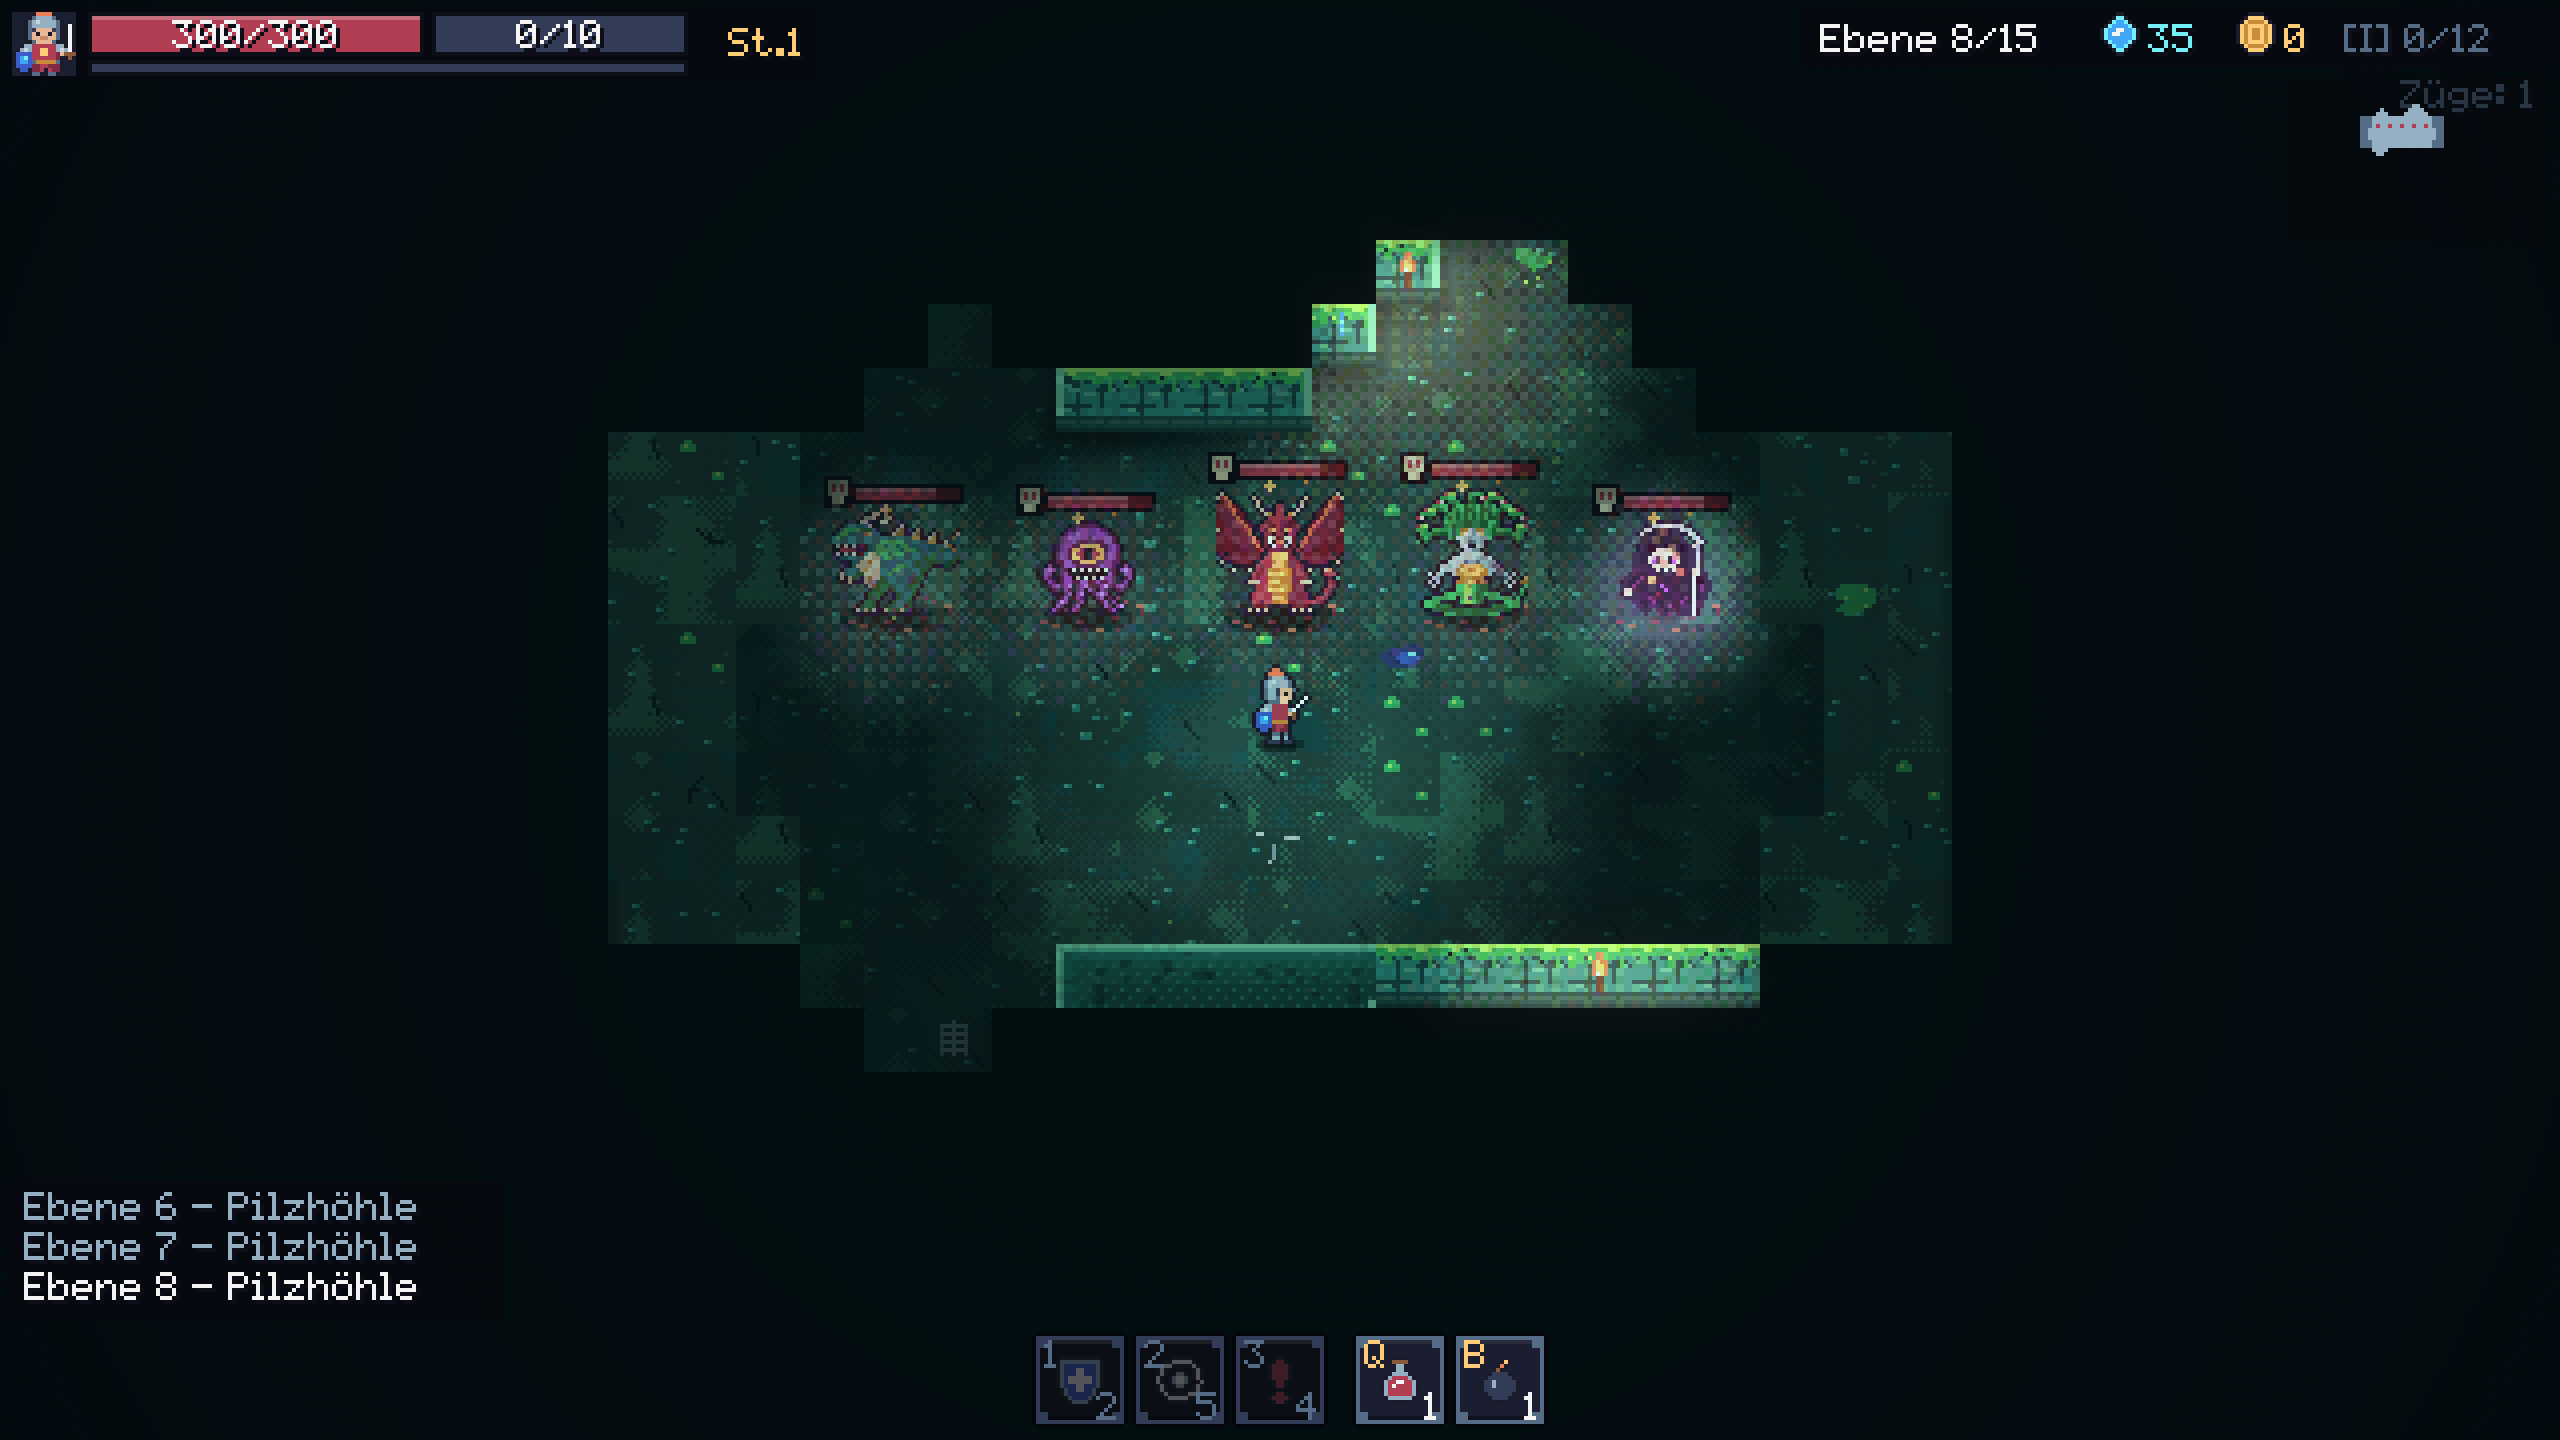
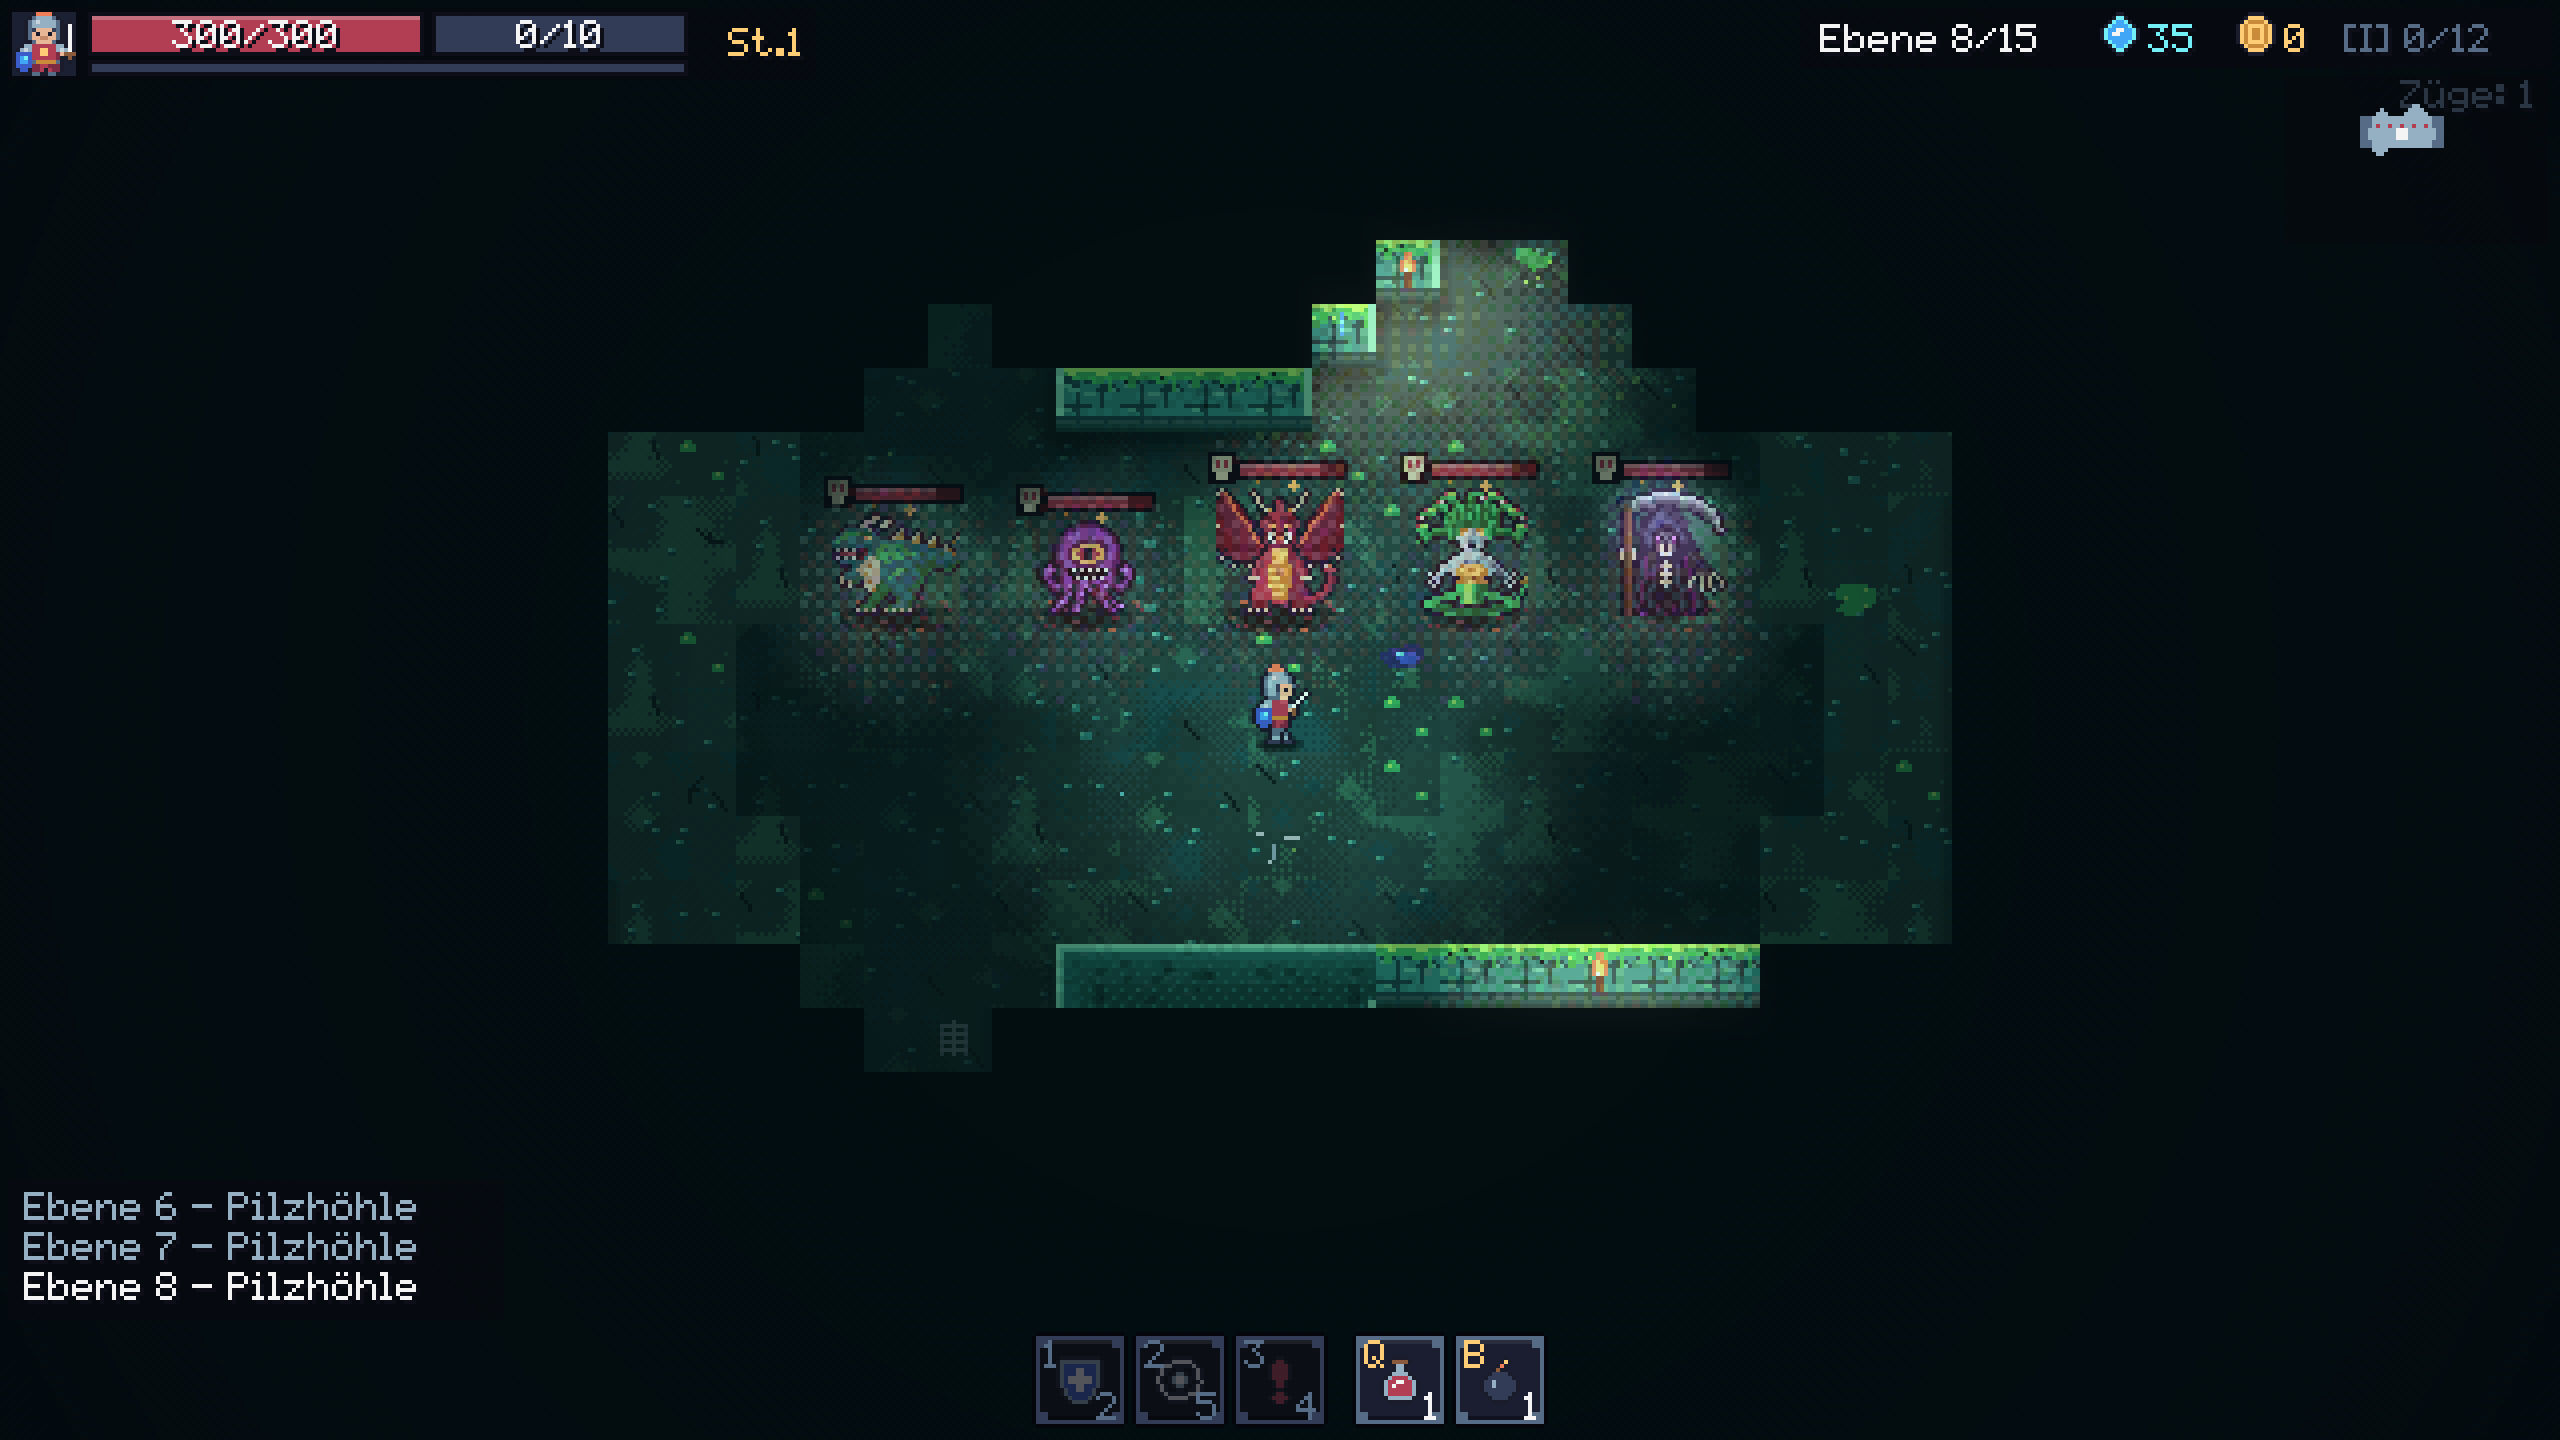
hunters: scarier Death sprite (32x32)
Skull hidden deep in the hood with glowing eye points, rib slit, clawed
bony hand, huge scythe over the head, robe tearing into violet smoke.
Drops the fire glow (yellow sparks) that washed the robe out; eyes get
their own small light.

Claude-Session: https://claude.ai/code/session_01TMNu2fYnrP26VeGDyRGVjJ

diff --git a/src/render/sprites.ts b/src/render/sprites.ts
@@ -1072,7 +1072,7 @@ if (SCHUETZE_NEU) ATTACK.schuetze = { f: [
 // Schwebende Wesen laufen nicht – sie wippen nur
 export const FLOATERS = new Set(['fledermaus', 'glutgeist', 'ratte', 'tod']);
 // Wesen, die selbst leuchten: Radius in Feldern und Farbe
-export const GLOW: Record<string, [number, string]> = { glutgeist: [3.4, '#ef7d57'], fuerst: [5, '#ef7d57'], irrlicht: [2.6, '#73eff7'], tod: [2.4, '#9a4fc0'] };
+export const GLOW: Record<string, [number, string]> = { glutgeist: [3.4, '#ef7d57'], fuerst: [5, '#ef7d57'], irrlicht: [2.6, '#73eff7'] };
 
 // Ereignisse: Leuchtpilz, Kühlplatte, Sporenei
 SPR.leuchtpilz = ['................', '................', '................', '.....ssss.......', '...sscwwcss.....', '..scccsscccs....', '..sccscccsccs...', '...ssssssssss...', '......gg........', '......gg....ss..',
@@ -1104,7 +1104,7 @@ export const RECOLORS: [string, string, Record<string, string>][] = [
   ['schlange', 'ratte', { d: '#38b764', h: '#a7f070', g: '#ffcd75' }],
 ];
 
-// ---------- Jäger: eigene große Gestalten, größer als Bosse (Echse 32x26, Drache 32x32, Medusa 28x32, Krake und Tod 24x24) ----------
+// ---------- Jäger: eigene große Gestalten, größer als Bosse (Echse 32x26, Drache 32x32, Medusa 28x32, Tod 32x32, Krake 24x24) ----------
 SPR.echse = [
   '..........uu....................',
   '........uuu..uu.................',
@@ -1228,30 +1228,38 @@ SPR.medusa = [
   '.......GGGFFFFFFFFGGG.......',
 ];
 SPR.tod = [
-  '.........SSwwwwwS.......',
-  '.......Sw.......wSS.....',
-  '......S...kkkk....wS....',
-  '........kkKKKKkk...SS...',
-  '.......kKKKKKKKKk...uS..',
-  '......kKKKKKKKKKKk.uS...',
-  '......kKKKuuuuKKKk..S...',
-  '.....kKKKuuuuuuKKKk.S...',
-  '.....kKKuPKuuKPuKKk.S...',
-  '.....kKKuvKuuKvuKKk.S...',
-  '.....kKKKuuuuuuKKKk.S...',
-  '.....kKKKKuKuKuKKKkuu...',
-  '....kKKKKKKKKKKKKKKuuk..',
-  '...kKKpKKKKKKKKKKKKSKk..',
-  '..kKKpKKKKKKKKKKKKKSKKk.',
-  '..kKpKKKKKKvKKKKKKKSKpk.',
-  '..uukKKKKKKKvKKKKKKSKpk.',
-  '..uu.kKKKKKKKKKKKKKSKk..',
-  '.....kKKpKKKKKKKKpKSKk..',
-  '.....kKKKpKKKKKKpKKSk...',
-  '......kKk.kKKpKKk.kSk...',
-  '.......k...kKk.Kk..S....',
-  '............k...k..S....',
-  '........................',
+  '.............SSSwSSS............',
+  '.........SSSwiiiiiiiwSSS........',
+  '.....mmmSiiiimmmmmmmiiiiwS......',
+  '.....mNmimmmmm.kk..mmmmmiiS.....',
+  '......Nnmm....kDkk.....mmmiSS...',
+  '......Nn.....kDDDkk......mmiS...',
+  '......Nn....kDDDDDkk......mmiS..',
+  '......Nn...kkDDDDDDkk.......iS..',
+  '......Nn...kDDDKKKDDk........i..',
+  '......Nn...kDDKKKKKDk........iS.',
+  '......Nn..kDDKKmmmKKDk..........',
+  '......Nn..kDDKPKmKPKDk..........',
+  '......Nn.kkDDKpmKmpKkkk.........',
+  '......Nn.kkkDKmuKumKkkk.........',
+  '.....SNnSkkkkKmuKumkkkkk........',
+  '.....uNnukkkkkkSuSkkkkDk........',
+  '.....uNnukkpkkkkkkkkkpkDk.......',
+  '......NnkkDpkkkKSkkkkpkkDk......',
+  '......NnkkDpkDkuuukDkpkkkDk.....',
+  '......NnkkDpkDkKSkkDkkpkkkD.....',
+  '......NnkkDpkDKuuukDkkpkmmmmu...',
+  '......NnkDkpkDKKSKkDkkpuku.u.u..',
+  '......NnkDpkkDKuuukDkkuDku.u..u.',
+  '......NnkDpkkDkkSkkDkkSDku.u..S.',
+  '......NnkDpkDkkkkkkkDkpDkS..S...',
+  '......NnDkpkDkkkkkkkDkkpD.......',
+  '......NnDkpkDkkkkkkkDkkpDk......',
+  '......NnDkpkDkkkkkkkDkkpDk......',
+  '......NnDpkkDkpkkkpkDkkpDk......',
+  '......Nnkp.kk.pkk.pkDkkp.kp.....',
+  '......Nnk.vpk..kp..k.pk..p......',
+  '........p...p..pv..p..p.........',
 ];
 // Rückansicht: dunkler, ohne Gesicht; Seitenansicht wie vorn (wird gespiegelt)
 const backOf = (rows: string[], face: string, to: string) => rows.map(r => r.replace(new RegExp(`[${face}]`, 'g'), to));
@@ -1325,7 +1333,40 @@ VIEWS.medusa = { b: [
     '....FFFFFFFFFFFFFFFFFFFF....',
     '.......GGGFFFFFFFFGGG.......',
   ], s: SPR.medusa };
-VIEWS.tod = { b: backOf(SPR.tod, 'uPv', 'K'), s: SPR.tod, alt: ['.'.repeat(24), ...SPR.tod.slice(0, 23)] };
+VIEWS.tod = { b: [
+    '.............SSSwSSS............',
+    '.........SSSwiiiiiiiwSSS........',
+    '.....mmmSiiiimmmmmmmiiiiwS......',
+    '.....mNmimmmmm.kk..mmmmmiiS.....',
+    '......Nnmm....kDkk.....mmmiSS...',
+    '......Nn.....kDDDkk......mmiS...',
+    '......Nn....kDDDDDkk......mmiS..',
+    '......Nn...kkDDDDDDkk.......iS..',
+    '......Nn...kDDDKKKDDk........i..',
+    '......Nn...kDDkkkkkDk........iS.',
+    '......Nn..kDDkkkkkkkDk..........',
+    '......Nn..kDDkkkkkkkDk..........',
+    '......Nn.kkDDkkkkkkkkkk.........',
+    '......Nn.kkkDkkkkkkkkkk.........',
+    '.....SNnSkkkkkkkkkkkkkkk........',
+    '.....uNnukkkkkkkkkkkkkDk........',
+    '.....uNnukkpkkkkDkkkkpkDk.......',
+    '......NnkkDpkkkkDkkkkpkkDk......',
+    '......NnkkDpkDkkDkkDkpkkkDk.....',
+    '......NnkkDpkDkkDkkDkkpkkkD.....',
+    '......NnkkDpkDkkDkkDkkpkmmmmu...',
+    '......NnkDkpkDkkDkkDkkpuku.u.u..',
+    '......NnkDpkkDkkDkkDkkuDku.u..u.',
+    '......NnkDpkkDkkDkkDkkSDku.u..S.',
+    '......NnkDpkDkkkkkkkDkpDkS..S...',
+    '......NnDkpkDkkkkkkkDkkpD.......',
+    '......NnDkpkDkkkkkkkDkkpDk......',
+    '......NnDkpkDkkkkkkkDkkpDk......',
+    '......NnDpkkDkpkkkpkDkkpDk......',
+    '......Nnkp.kk.pkk.pkDkkp.kp.....',
+    '......Nnk.vpk..kp..k.pk..p......',
+    '........p...p..pv..p..p.........',
+  ], s: SPR.tod, alt: ['.'.repeat(32), ...SPR.tod.slice(0, 31)] };
 
 SPR.fountain = [E, E, '.......ss.......', '......scws......', '.....s.ss.s.....', '....s..cc..s....', '...gggggggggg...', '..gccscccscccg..', '..gcccccccccsg..', '..gggggggggggg..',
   '...gddddddddg...', '....gddddddg....', '....gddddddg....', '...gggggggggg...', '..DDDDDDDDDDDD..', E];

diff --git a/src/render/hunters.ts b/src/render/hunters.ts
@@ -139,6 +139,7 @@ export function drawHunterAura(ctx: CanvasRenderingContext2D, a: Actor, q: { x: 
   ctx.globalAlpha = 1;
   if (!reducedFx() && Math.random() < dt * (rage ? 14 : 6))
     parts.push({ x: q.x * TS + 2 + Math.random() * 12, y: q.y * TS + 10 + Math.random() * 4, vx: (Math.random() - 0.5) * 6, vy: -8 - Math.random() * 10, col: rage ? (Math.random() < 0.5 ? '#b13e53' : '#ef7d57') : (Math.random() < 0.5 ? '#5d275d' : '#6b1d2a'), t: 0, life: 0.9, g: -12, s: Math.random() < 0.3 ? 2 : 1 });
+  if (a.kind === 'tod') lights.push({ x: q.x, y: q.y - 1.1, r: 1.3 + 0.2 * Math.sin(time * 3), col: '#d08cff', a: 0.9 }); // Augenglut in der Kapuze
   lights.push({ x: q.x, y: q.y, r: (rage ? 3 : 2.3) + (armed ? 0.6 * Math.sin(time * 12) : 0), col, a: 0.6 });
 }
 
